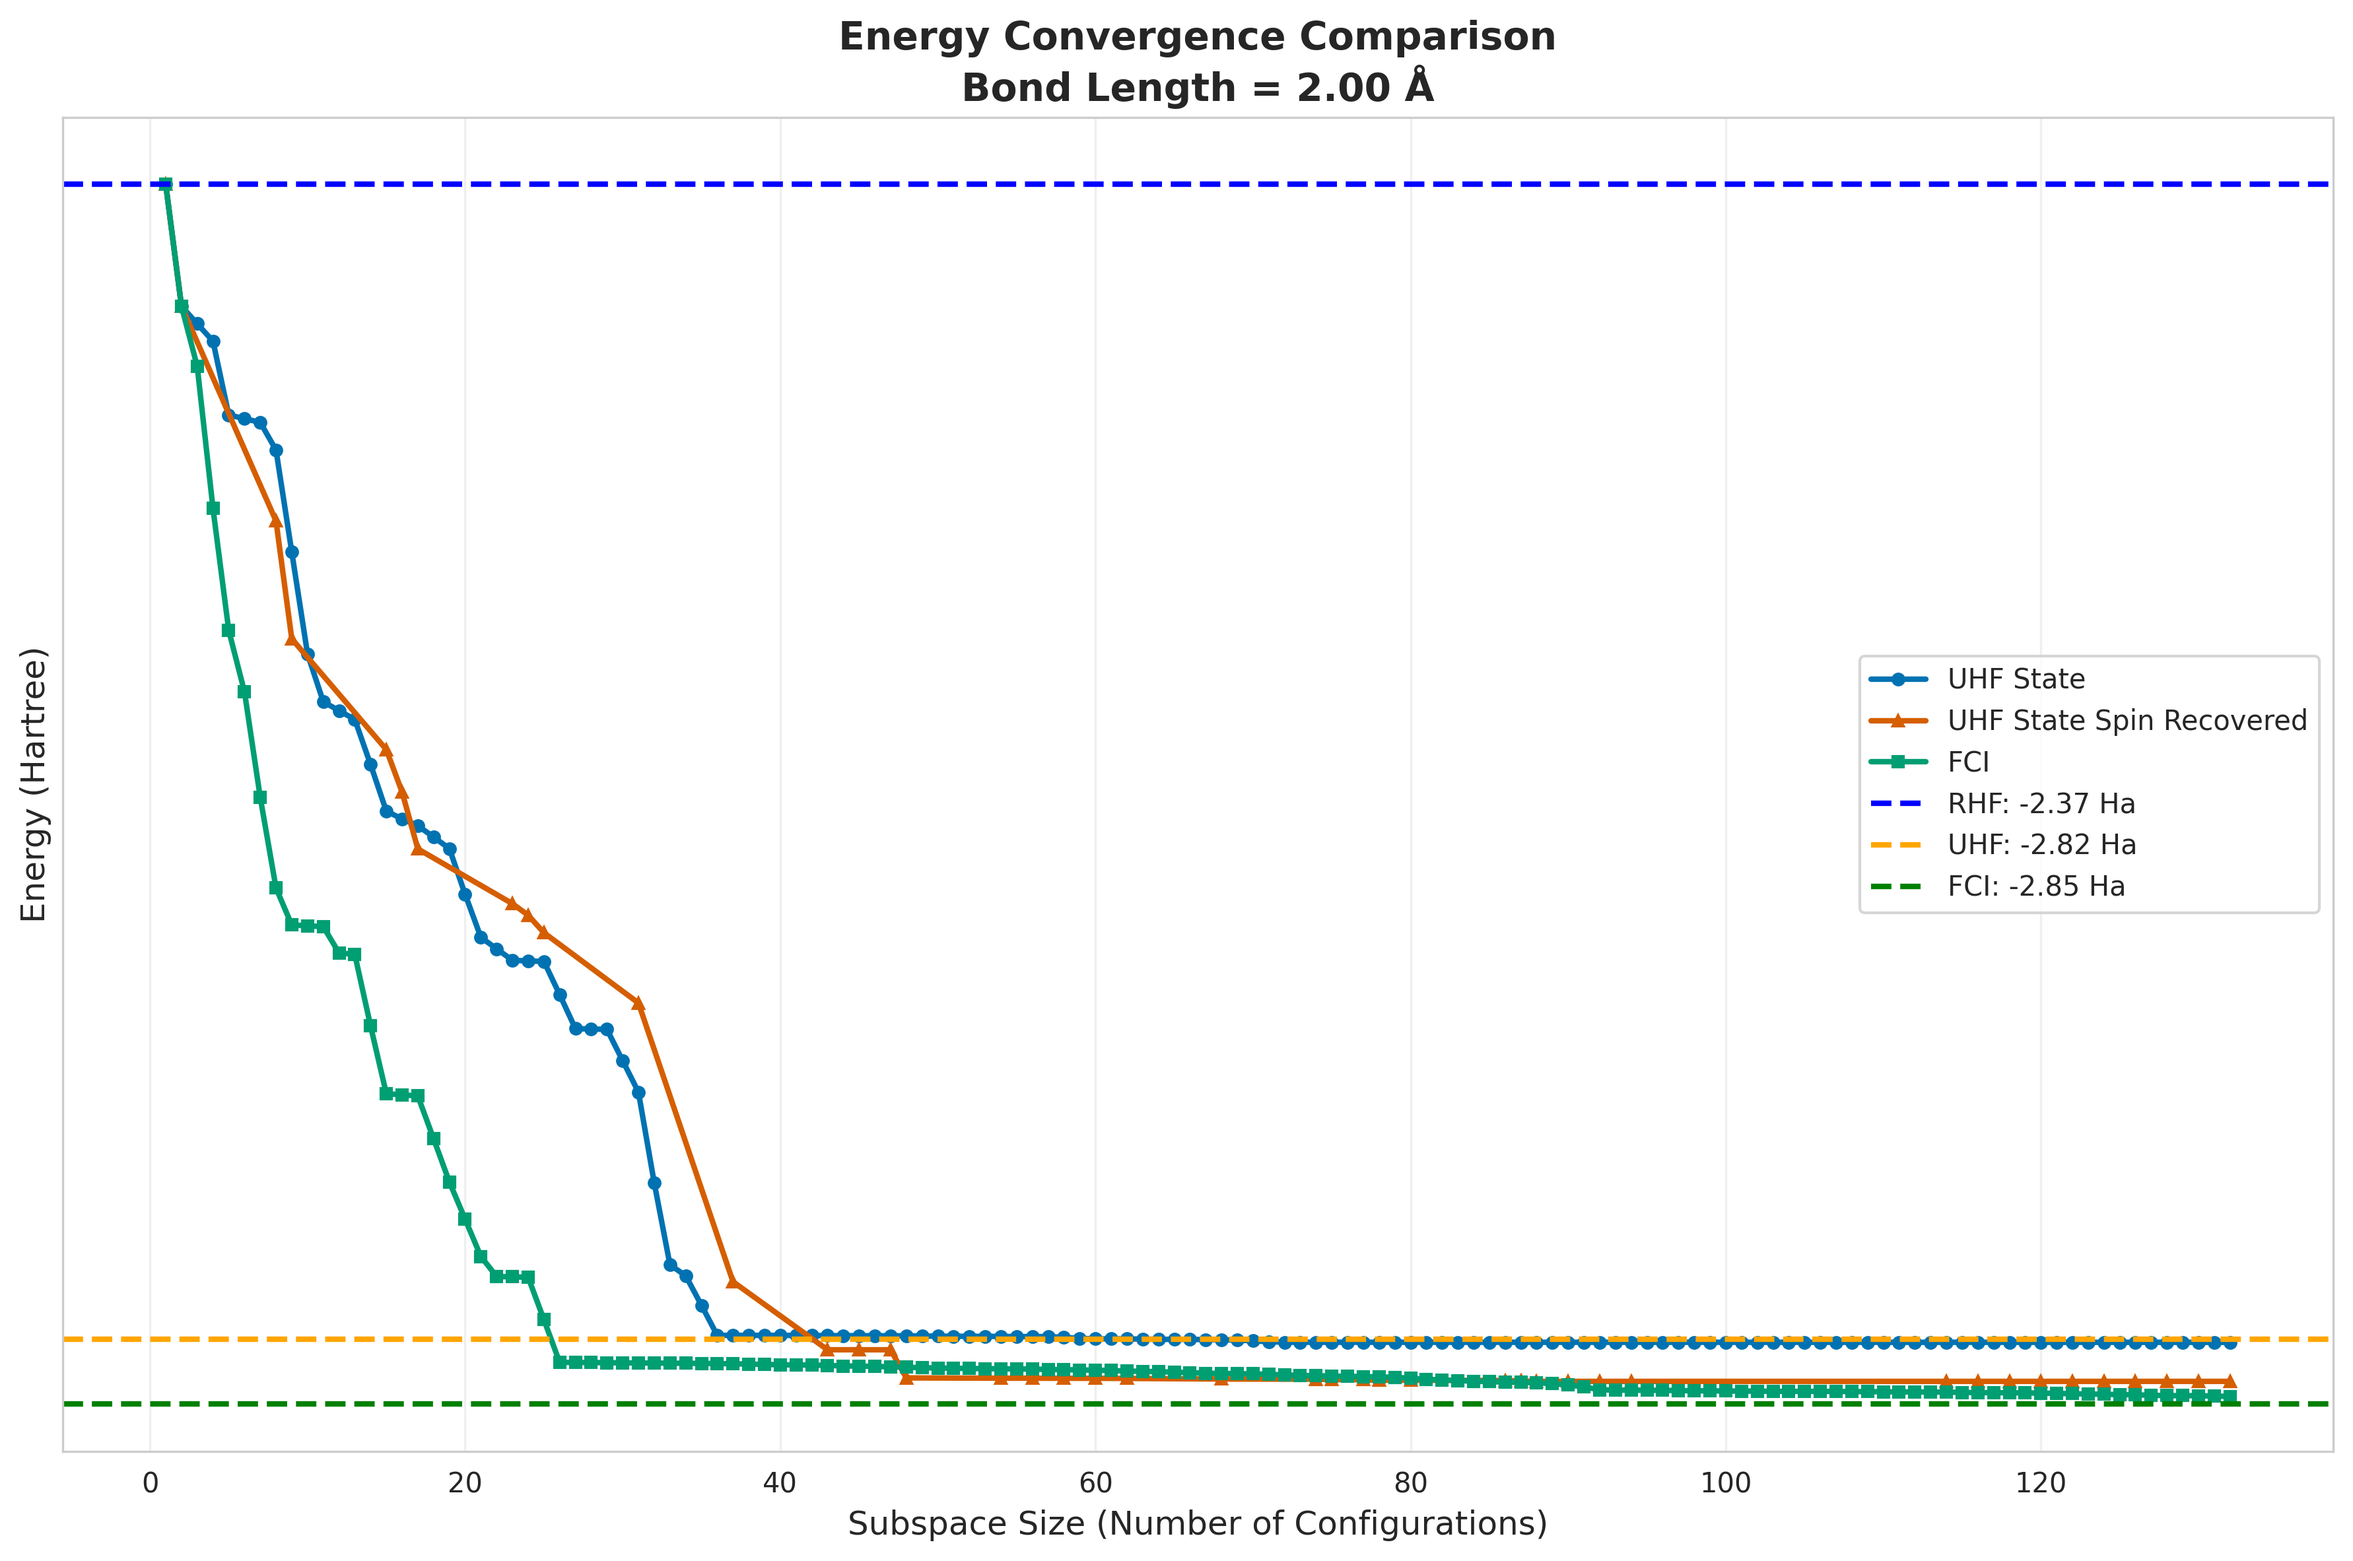
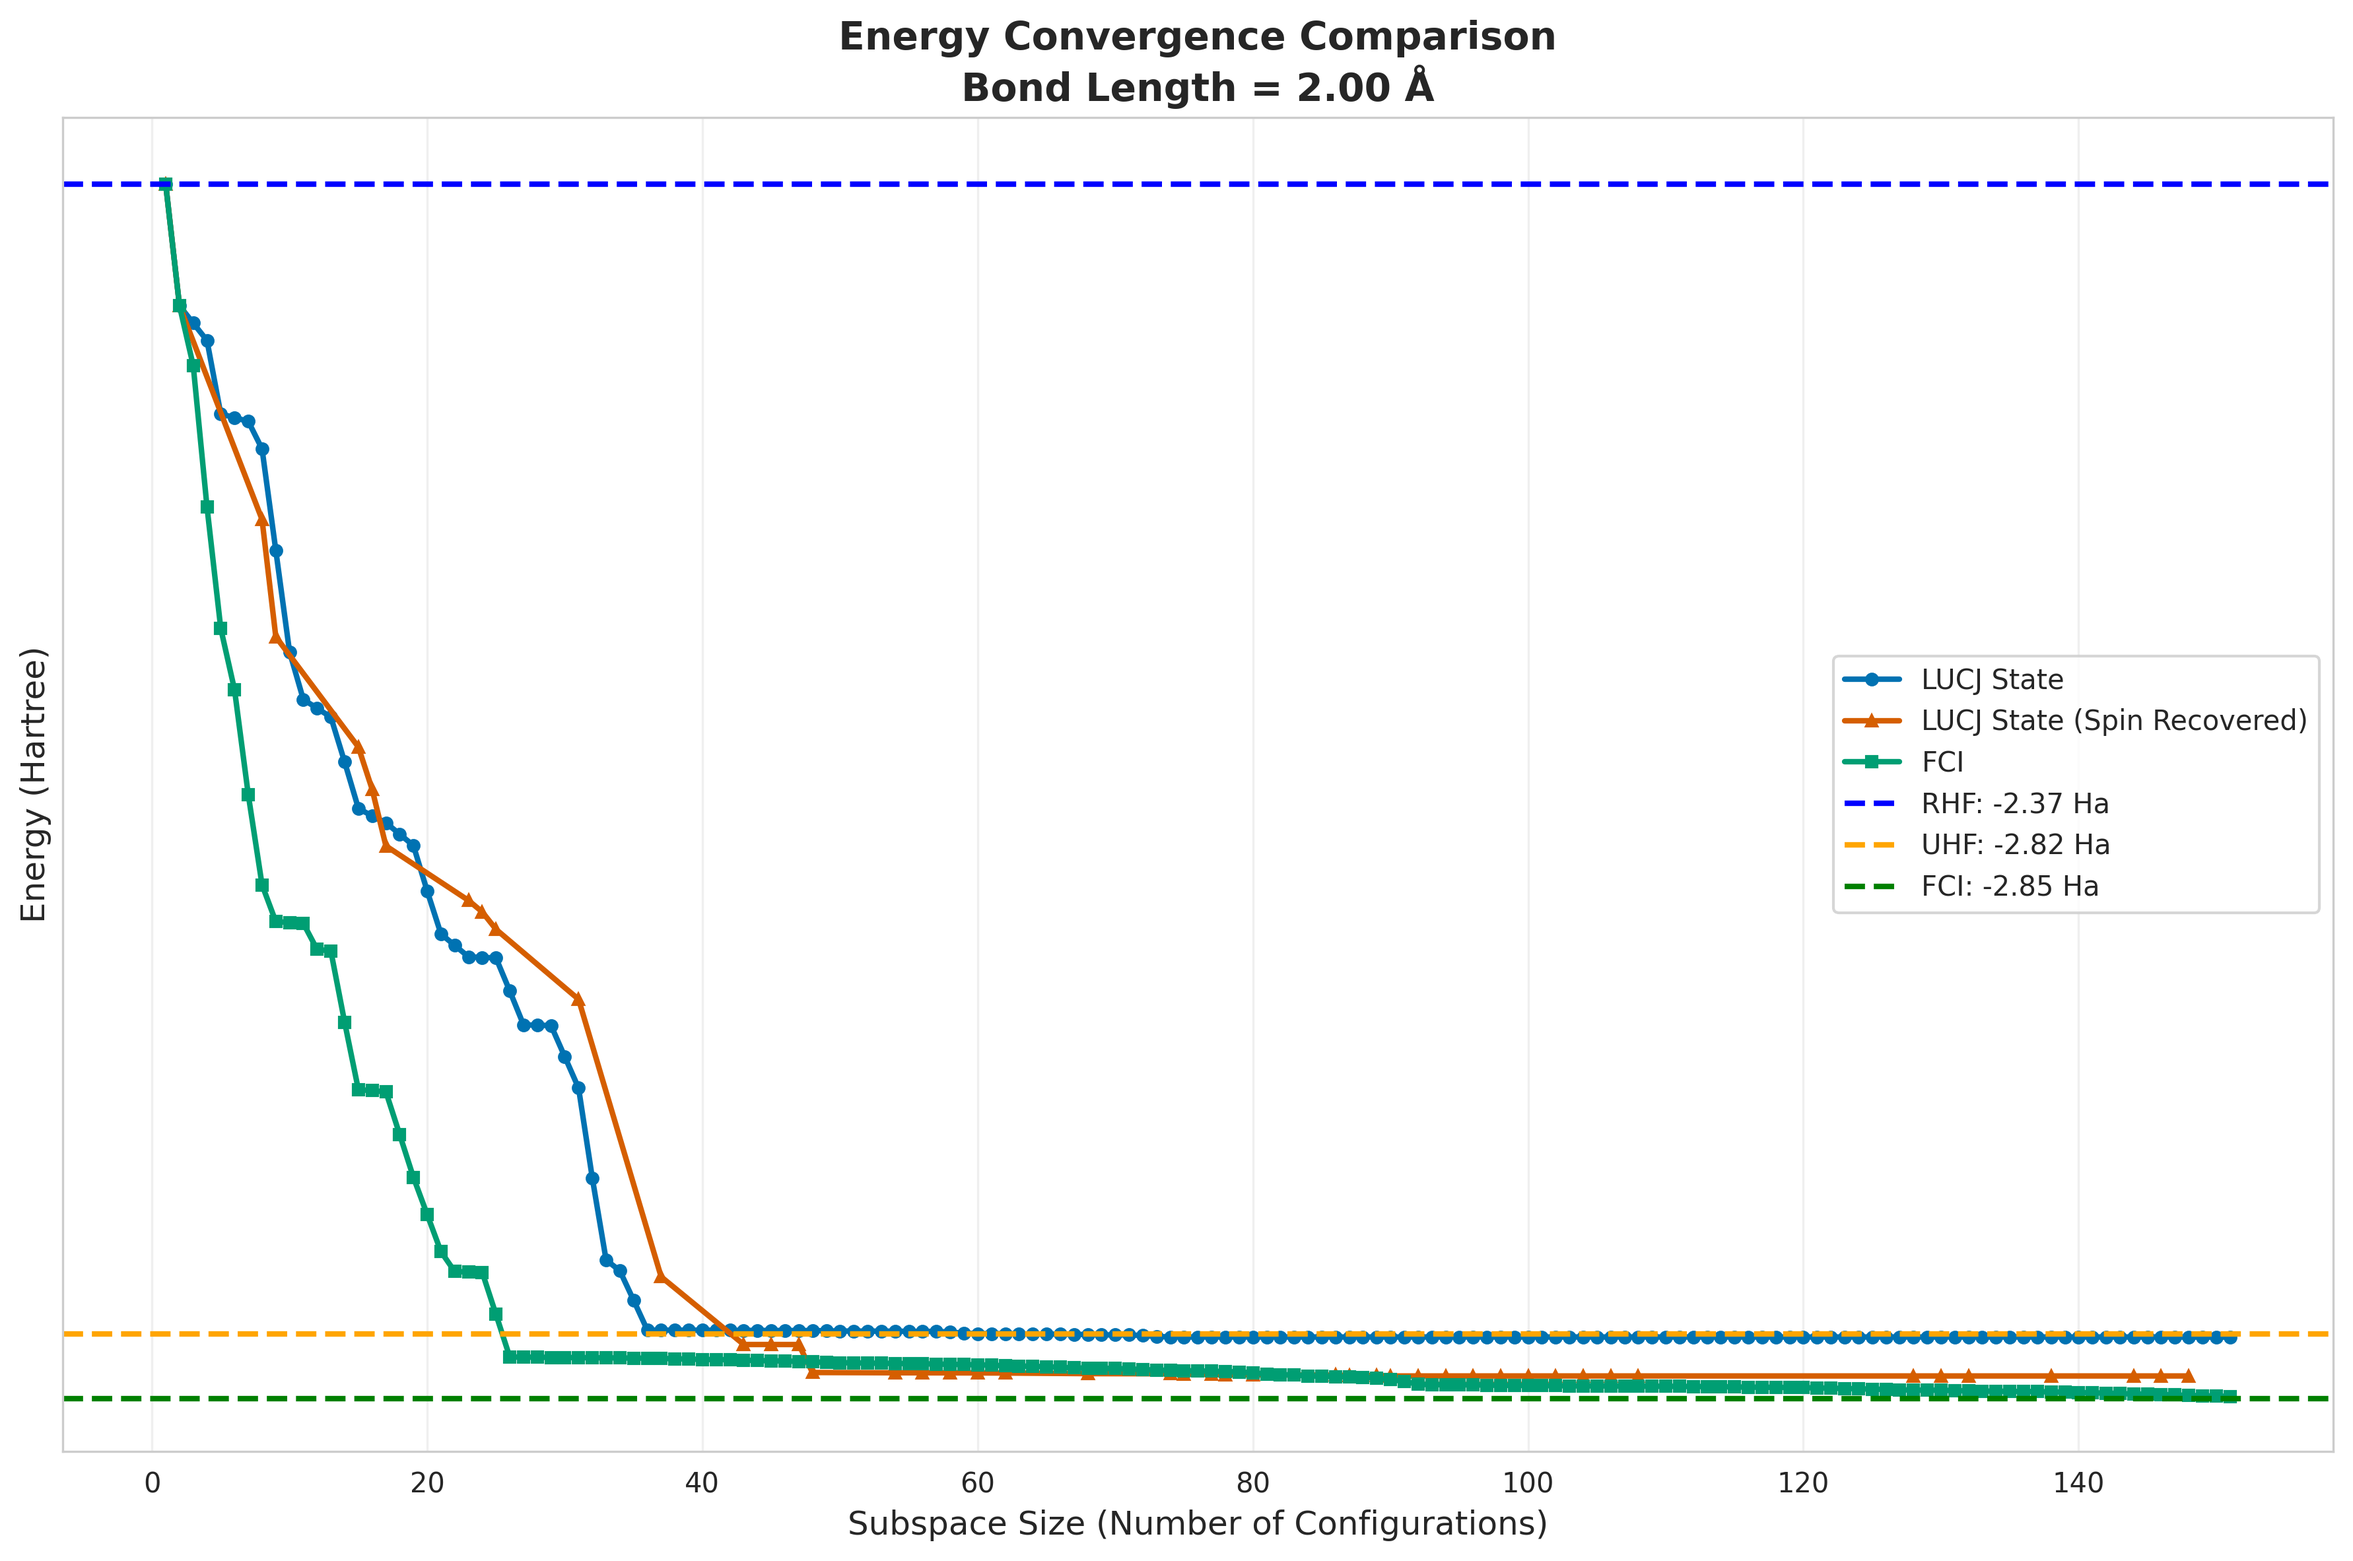
Standardize data directory structure in research scripts
Updated all research scripts to save output data under a directory named after the script's full stem, rather than a short code. This change improves consistency and clarity in data organization. Also updated gate counts and data files for the lucj circuit with new results.

Changed region(s): [[0.0311, 0.1852, 0.9966, 0.9569], [0.7786, 0.4321, 0.9655, 0.5865], [0.1246, 0.5865, 0.1557, 0.6791]]

diff --git a/research/03_h6_lattice_dev/03a_h6_lattice_n_dets.py b/research/03_h6_lattice_dev/03a_h6_lattice_n_dets.py
@@ -27,10 +27,9 @@ def main():
     analyzes how QSCI energy converges to FCI as the subspace size increases
     by varying the number of configurations included based on amplitude ranking.
     """
-    # Save under grouped short code (e.g., '03a') inside this script's folder
+    # Save under this script's full stem name inside this script's folder
     stem = Path(__file__).stem
-    short_code = stem.split('_')[0]
-    data_dir = Path(__file__).parent / 'data' / short_code
+    data_dir = Path(__file__).parent / 'data' / stem
     data_dir.mkdir(parents=True, exist_ok=True)
 
     bond_length = 2.0

diff --git a/research/08_spin_recovery/08_spin_recovery.py b/research/08_spin_recovery/08_spin_recovery.py
@@ -102,10 +102,9 @@ def main():
 
 
 def run_full_analysis(bond_length, n_atoms):
-    # Save under grouped short code (e.g., '08', '09a') inside this script's folder
+    # Save under this script's full stem name inside this script's folder
     stem = Path(__file__).stem
-    short_code = stem.split('_')[0]
-    data_dir = Path(__file__).parent / 'data' / short_code / f"bond_length_{bond_length:.2f}_spin_symm"
+    data_dir = Path(__file__).parent / 'data' / stem / f"bond_length_{bond_length:.2f}_spin_symm"
 
     # Run quantum chemistry calculations
     mol = build_h_chain(bond_length, n_atoms)

diff --git a/research/09_lucj/09a_lucj_circuit.py b/research/09_lucj/09a_lucj_circuit.py
@@ -42,10 +42,9 @@ def main():
     bond_length = 2.0
     n_atoms = 6
 
-    # Save under grouped short code (e.g., '09a') inside this script's folder
+    # Save under grouped short code (e.g., '09a_lucj_circuit') inside this script's folder
     stem = Path(__file__).stem
-    short_code = stem.split('_')[0]
-    data_dir = Path(__file__).parent / 'data' / short_code / f"bond_length_{bond_length:.2f}"
+    data_dir = Path(__file__).parent / 'data' / stem / f"bond_length_{bond_length:.2f}"
 
     print(f"Running H{n_atoms} chain bond length: {bond_length:.2f} Angstrom")
 

diff --git a/research/09_lucj/09b_lucj_comparison.py b/research/09_lucj/09b_lucj_comparison.py
@@ -440,8 +440,8 @@ def main():
     # Configuration
     bond_length = 2.0
     base_dir = Path(__file__).parent
-    short_code = Path(__file__).stem.split('_')[0]
-    out_dir = base_dir / 'data' / short_code / f"bond_length_{bond_length:.2f}"
+    stem = Path(__file__).stem
+    out_dir = base_dir / 'data' / stem / f"bond_length_{bond_length:.2f}"
 
     print("Building H6 chain and running RHF/UHF/FCI...")
     mol = build_h_chain(bond_length, n_atoms=6)

diff --git a/research/03_h6_lattice_dev/03c_h6_chain.py b/research/03_h6_lattice_dev/03c_h6_chain.py
@@ -92,8 +92,7 @@ def main():
     # Setup
     bond_length = 2.0
     stem = Path(__file__).stem
-    short_code = stem.split('_')[0]
-    data_dir = Path(__file__).parent / 'data' / short_code / f"bond_length_{bond_length:.2f}"
+    data_dir = Path(__file__).parent / 'data' / stem / f"bond_length_{bond_length:.2f}"
     print(f"Running bond length: {bond_length:.2f} Angstrom")
 
     # Run quantum chemistry calculations

diff --git a/research/05_h3_basis_sets/05a_h3_sto3g.py b/research/05_h3_basis_sets/05a_h3_sto3g.py
@@ -22,8 +22,7 @@ def main():
     # Setup
     bond_length = 2.0
     stem = Path(__file__).stem
-    short_code = stem.split('_')[0]
-    data_dir = Path(__file__).parent / 'data' / short_code / f"bond_length_{bond_length:.2f}"
+    data_dir = Path(__file__).parent / 'data' / stem / f"bond_length_{bond_length:.2f}"
     print(f"Running bond length: {bond_length:.2f} Angstrom")
 
     # Run quantum chemistry calculations

diff --git a/research/05_h3_basis_sets/05b_h3_sto6g.py b/research/05_h3_basis_sets/05b_h3_sto6g.py
@@ -23,8 +23,7 @@ def main():
     # Setup
     bond_length = 2.0
     stem = Path(__file__).stem
-    short_code = stem.split('_')[0]
-    data_dir = Path(__file__).parent / 'data' / short_code / f"bond_length_{bond_length:.2f}"
+    data_dir = Path(__file__).parent / 'data' / stem / f"bond_length_{bond_length:.2f}"
     print(f"Running bond length: {bond_length:.2f} Angstrom")
 
     # Run quantum chemistry calculations

diff --git a/research/05_h3_basis_sets/05c_h3_basis_sets.py b/research/05_h3_basis_sets/05c_h3_basis_sets.py
@@ -23,8 +23,7 @@ def main():
     # Setup
     bond_length = 2.0
     stem = Path(__file__).stem
-    short_code = stem.split('_')[0]
-    data_dir = Path(__file__).parent / 'data' / short_code / f"bond_length_{bond_length:.2f}"
+    data_dir = Path(__file__).parent / 'data' / stem / f"bond_length_{bond_length:.2f}"
     print(f"Running bond length: {bond_length:.2f} Angstrom")
 
     # Run quantum chemistry calculations

diff --git a/research/06_h3_basis_comparison/06_h3_basis_comparison.py b/research/06_h3_basis_comparison/06_h3_basis_comparison.py
@@ -45,8 +45,7 @@ def main():
     Run H3+ calculations for multiple basis sets and compare convergence.
     """
     stem = Path(__file__).stem
-    short_code = stem.split('_')[0]
-    data_dir = Path(__file__).parent / 'data' / short_code
+    data_dir = Path(__file__).parent / 'data' / stem
     data_dir.mkdir(parents=True, exist_ok=True)
 
     print(f"H3+ Basis Set Comparison Study")

diff --git a/research/06_h3_basis_comparison/06_h3_basis_comparison_test.py b/research/06_h3_basis_comparison/06_h3_basis_comparison_test.py
@@ -28,8 +28,7 @@ def main():
     Run H3+ calculations for a few basis sets (quick test).
     """
     stem = Path(__file__).stem
-    short_code = stem.split('_')[0]
-    data_dir = Path(__file__).parent / 'data' / short_code
+    data_dir = Path(__file__).parent / 'data' / stem
     data_dir.mkdir(parents=True, exist_ok=True)
 
     print(f"H3+ Basis Set Comparison Study (Quick Test)")

diff --git a/research/01_h4_chain/01_h4_chain.py b/research/01_h4_chain/01_h4_chain.py
@@ -47,7 +47,7 @@ def main():
     qsci_energies = []
     bond_lengths = []
 
-    # Save under grouped short code (e.g., '09a') inside this script's folder
+    # Save under grouped short code (e.g., '09a_lucj_circuit') inside this script's folder
     data_dir = Path(__file__).parent / 'data'
 
     for bond_length in np.linspace(0.5, 3, 21):

diff --git a/research/07_h6_chain_bisect/07_h6_chain_bisect.py b/research/07_h6_chain_bisect/07_h6_chain_bisect.py
@@ -20,8 +20,7 @@ def main():
     """
     # Setup
     stem = Path(__file__).stem
-    short_code = stem.split('_')[0]
-    data_dir = Path(__file__).parent / 'data' / short_code
+    data_dir = Path(__file__).parent / 'data' / stem
 
     # Run quantum chemistry calculations
     mol = build_h6_chain()
